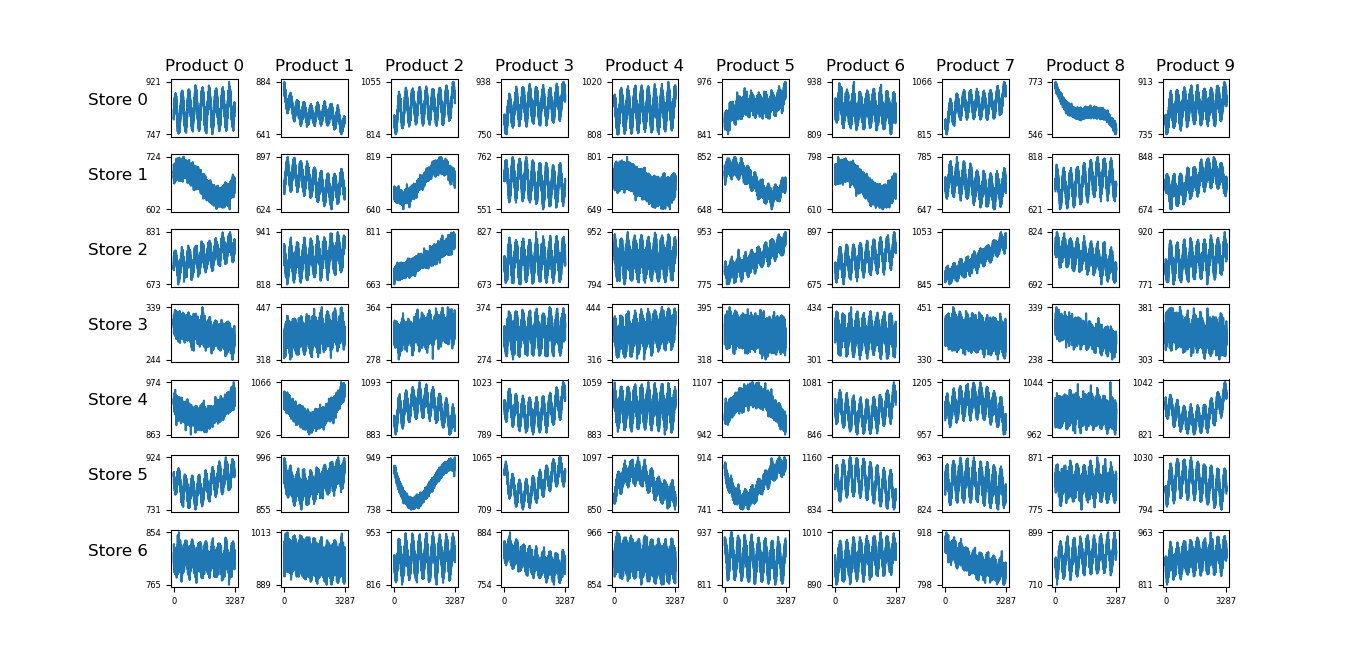
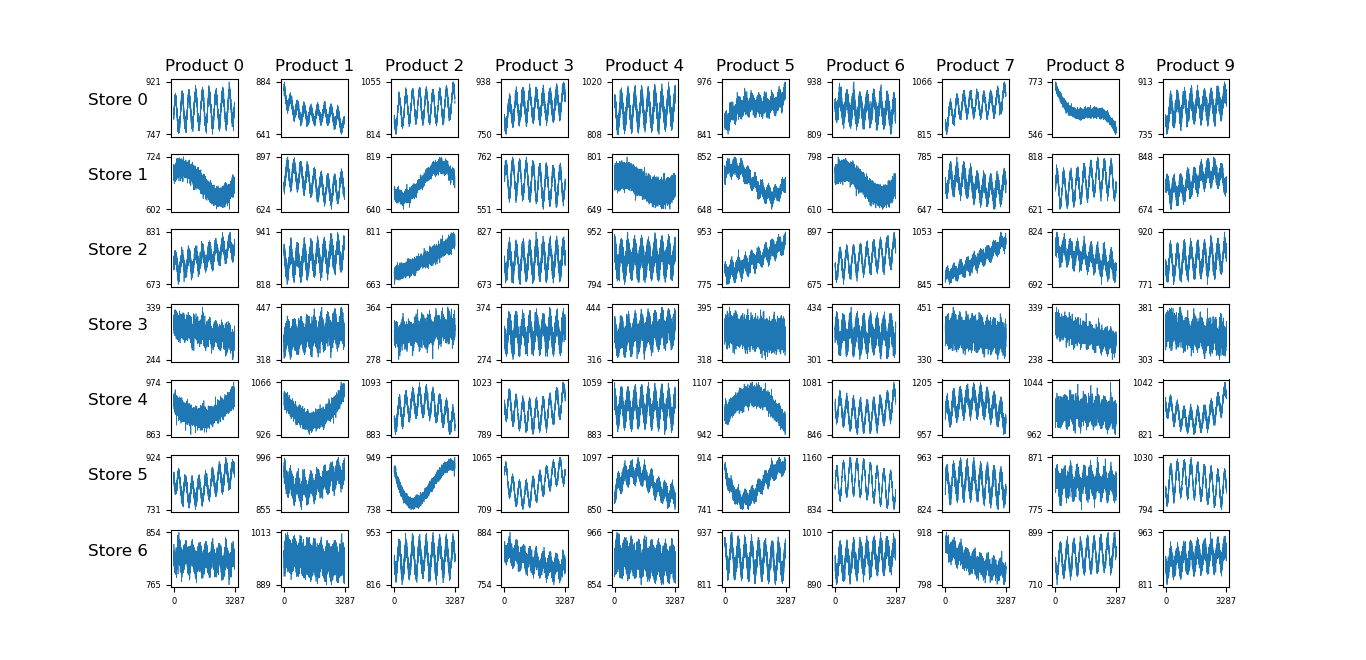
added code for visualising the training data. Png of data is attached

diff --git a/visualize_data.py b/visualize_data.py
@@ -1,3 +1,7 @@
+#
+# Data visualisation
+#a
+
 import numpy as np
 import matplotlib.pyplot as plt
 import pandas as pd
@@ -9,15 +13,6 @@ def visualise_data():
 
     gb = df.groupby(["store", "product"])
     groups = {x: gb.get_group(x) for x in gb.groups}
-    #print(groups)
-
-    '''
-    for key, data in groups.items():
-        # By default, we only take the column `number_sold`.
-        # Please modify this line if your model takes other columns as input
-        X = data.drop(["Date", "store", "product"], axis=1).values  # convert to numpy array
-        N = X.shape[0]  # total number of testing time steps
-    '''
 
     fig, axs = plt.subplots(7, 10, figsize=(40, 35))
     for index, store_axs in enumerate(axs):
@@ -25,7 +20,7 @@ def visualise_data():
             X = groups[(index, index2)]
             X = X.drop(["Date", "store", "product"], axis=1).values
             X = [item for sublist in X for item in sublist]
-            product_ax.plot(X)
+            product_ax.plot(X, linewidth=0.5)
             product_ax.set_yticks([min(X), max(X)])
             if index == 6:
                 product_ax.set_xticks([0, len(X)])
